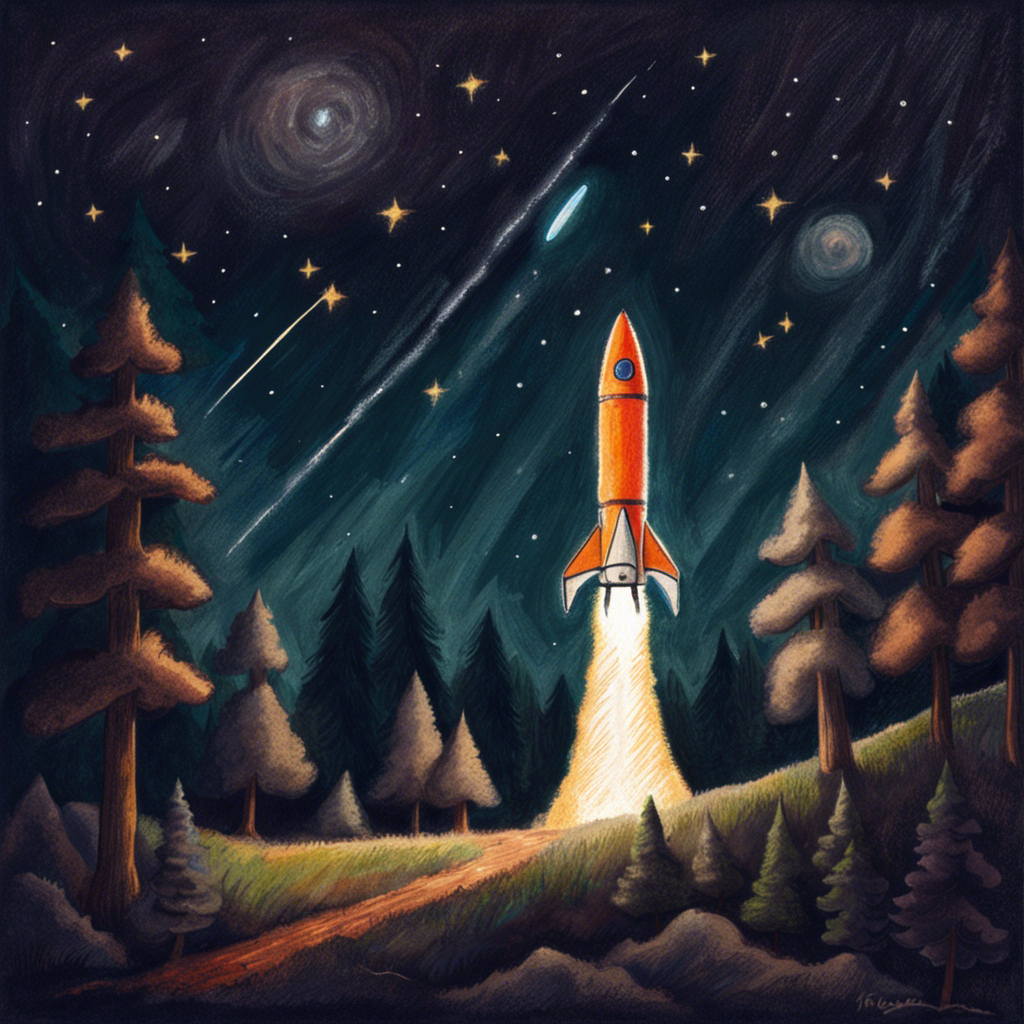
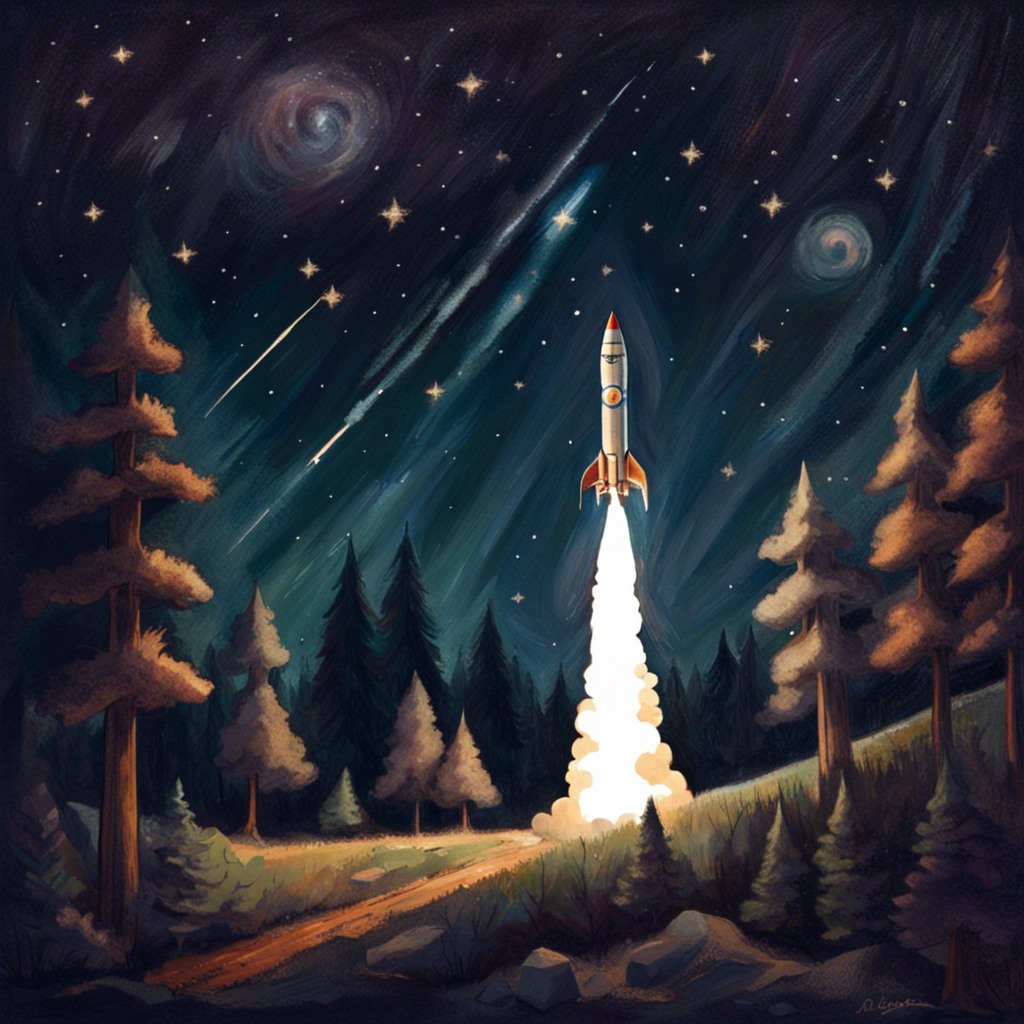
feat: pass prompt

diff --git a/src/pages/stability/index.tsx b/src/pages/stability/index.tsx
@@ -49,6 +49,18 @@ export const Stability = () => {
     setTextInput(event.target.value);
   };
 
+  const handleGenerate = async () => {
+
+    const requestBody = 
+    {
+      promptMessage: textInput,
+      imageUrl
+    }
+    const res = await fetch("/api/generate", { method: "POST", body: JSON.stringify(requestBody) })
+      .then((response) => response.json())
+      .catch((error) => console.error("Error fetching data:", error));
+  };
+
   return (
     <>
       <div>Welcome to stable diffusion!</div>
@@ -92,7 +104,7 @@ export const Stability = () => {
         </div>
       )}
 
-      <button>Generate</button>
+      <button onClick={handleGenerate}>Generate</button>
     </>
   );
 };

diff --git a/src/pages/api/generate.ts b/src/pages/api/generate.ts
@@ -12,13 +12,17 @@ export default async function handler(
   req: NextApiRequest,
   res: NextApiResponse
 ) {
+  const { promptMessage, imageUrl } = JSON.parse(req.body);
+
+  console.log("body", promptMessage, imageUrl);
+
   const request = buildGenerationRequest("stable-diffusion-xl-1024-v0-9", {
     type: "image-to-image-masking",
     initImage: fs.readFileSync("src/sources/rocket.png"),
     maskImage: fs.readFileSync("src/sources/mask.png"),
     prompts: [
       {
-        text: "crayon drawing of rocket ship launching from forest",
+        text: promptMessage,
       },
     ],
     seed: 44332211,

diff --git a/src/pages/api/feature/base.ts b/src/pages/api/feature/base.ts
@@ -4,7 +4,7 @@ import { grpc as GRPCWeb } from "@improbable-eng/grpc-web";
 import { NodeHttpTransport } from "@improbable-eng/grpc-web-node-http-transport";
 
 // This is a NodeJS-specific requirement - browsers implementations should omit this line.
-GRPCWeb.setDefaultTransport(NodeHttpTransport());
+//GRPCWeb.setDefaultTransport(NodeHttpTransport());
 
 // Authenticate using your API key, don't commit your key to a public repository!
 const metadata = new GRPCWeb.Metadata();
